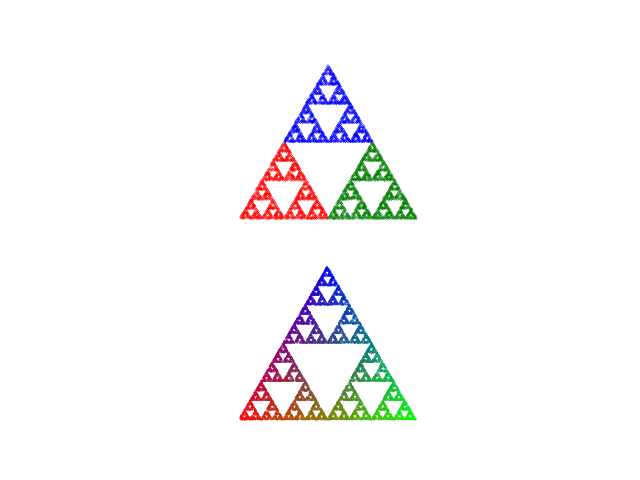
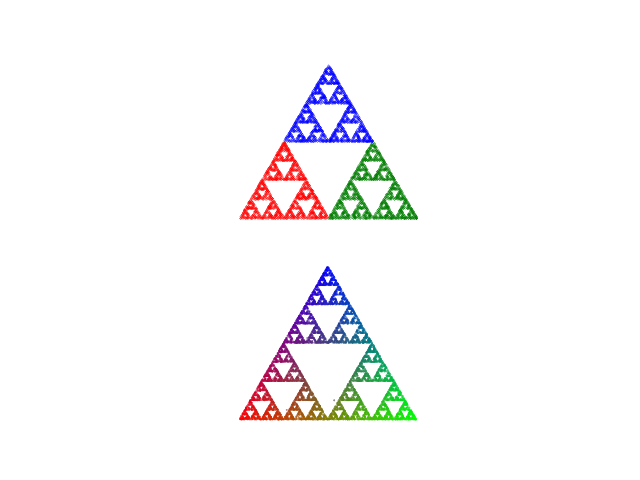
added some metods to chaos game

Changed region(s): [[0.375, 0.125, 0.6562, 0.4688], [0.375, 0.5625, 0.6562, 0.875]]

diff --git a/chaos-game.py b/chaos-game.py
@@ -20,24 +20,62 @@ class ChaosGame:
     def __init__(self, n=3, r=0.5):
         self.n = n
         self.r = r
-        
 
         # litt pussig error raise (2x)
         if r < 0 or 1 < r:
             raise ValueError(f"r must be between 0 and 1; r is {r}")
 
-        if n <= 3:
+        if n < 3:
             raise ValueError(f"n must be above at least 3; n is {n}")
 
         if not isinstance(n, int):
             raise TypeError(f"n must be of type integer; n is {type(n)}")
-
         
-            
+        self._generate_ngon()
+        #self._starting_point()
 
 
+    def _generate_ngon(self):
+        n = self.n
+        self.c = np.array([[np.sin(i*2*np.pi/(n)), np.cos(i*2*np.pi/(n))] for i in range(n)])
 
+    def _starting_point(self):
+        w = np.random.random(self.n)
+        w = w/np.sum(w)
+
+        start = np.array([self.c[i] * w[i] for i in range(self.n)])
+        starting_point = np.sum(start, axis=0)
+        # print(starting_point)
+        return starting_point
+
+
+    def plot_ngon(self):
+        plt.scatter(*zip(*self.c))
+
+        plt.axis("equal")
+        #plt.axis("off")
+       
+
+    def plot_ngon_filled(self, X):
+        plt.scatter(*zip(*X), s=0.2)#, marker=".")
+
+        plt.axis("equal")
+        #plt.axis("off")
+
+    def iterate(self, steps, discard=5):
+        
+        
+        
 
 if __name__ == "__main__":
-    test = ChaosGame()
+    test = ChaosGame(5)
+    
+    N = 100_000
+    X = np.empty((N, 2))
+    for i in range(N):
+        X[i] = test._starting_point()
+
+    test.plot_ngon_filled(X)
+    test.plot_ngon()
+    plt.show()
 

diff --git a/triangle.py b/triangle.py
@@ -22,6 +22,8 @@ plt.scatter(*zip(*corners))
 
 w = np.random.random(3)
 w = w/np.sum(w)
+print(corners)
+print(w)
 start = np.array([corners[i] * w[i] for i in range(3)])
 starting_point = np.sum(start, axis=0)
 

diff --git a/test_chaos-game.py b/test_chaos-game.py
@@ -1,2 +1,5 @@
 import numpy as np 
 import matplotlib.pyplot as plt 
+
+
+# plot n-gons: 3 - 8
